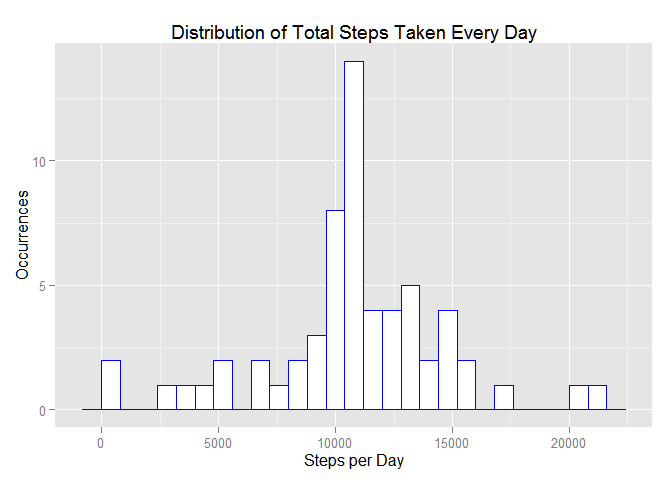
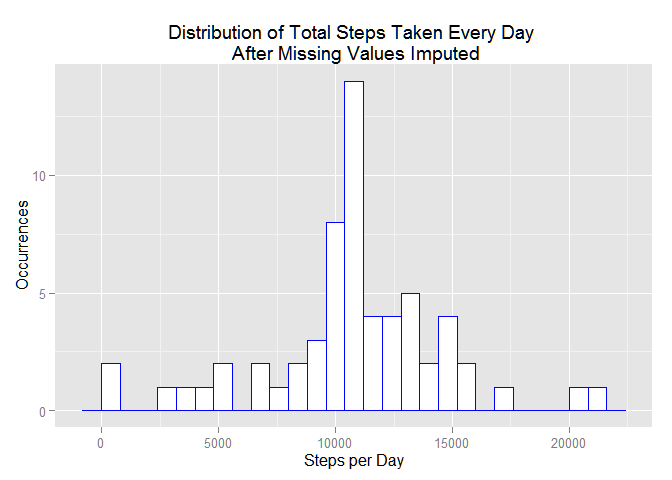
Clarified questions

diff --git a/PA1_template.html b/PA1_template.html
@@ -109,12 +109,13 @@ g + geom_line(binwidth = 800, fill=&quot;white&quot;, color=&quot;blue&quot;) +
[1 lines of base64/hex data omitted]
 <pre class="r"><code>HighInterval &lt;- Intervals[which.max(Intervals[, 2]), 1]
 HighValue &lt;- Intervals[which.max(Intervals[, 2]), 2]</code></pre>
-<p>The Maximum Number of Steps in a 5 minute interval is 206.1698113 and this starts at 835 minutes into the day.</p>
+<p>The Maximum Average Number of Steps in a 5 minute interval is 206.1698113 and this starts at 835 minutes into the day.</p>
 </div>
 <div id="imputing-missing-values" class="section level1">
 <h1>Imputing missing values</h1>
 <p>Find the total missing vales and report.</p>
-<p>Fill in the NA values with the mean for that interval, plot the histogram to see how it changes. Post the mean and median.</p>
+<p>Strategy for NAs: Fill in the NA values with the mean for that interval, plot the histogram to see how it changes.</p>
+<p>Post the mean and median after missing values are imputed.</p>
 <pre class="r"><code>missing &lt;- (nrow(activity)- sum(complete.cases(activity)))</code></pre>
 <p>There are 2304 rows with missing values</p>
 <pre class="r"><code>activity3 &lt;- merge(activity, Intervals, by.x = &quot;interval&quot;, by.y = &quot;Time_Interval&quot;, all.x = TRUE)
@@ -126,12 +127,12 @@ colnames(SumDays3) &lt;- c(&quot;Day&quot;, &quot;Total_Steps&quot;)
 
 library(ggplot2)
 ggplot(SumDays3, aes(x = Total_Steps)) + geom_histogram(binwidth = 800, fill=&quot;white&quot;, color=&quot;blue&quot;) + 
-    labs(title=&quot;Distribution of Total Steps Taken Every Day&quot;, x = &quot;Steps per Day&quot;, y=&quot;Occurrences&quot;)</code></pre>
[1 lines of base64/hex data omitted]
+    labs(title=&quot;Distribution of Total Steps Taken Every Day \n After Missing Values Imputed&quot;, x = &quot;Steps per Day&quot;, y=&quot;Occurrences&quot;)</code></pre>
[1 lines of base64/hex data omitted]
 <pre class="r"><code>MeanSteps3 &lt;- mean(SumDays3$Total_Steps)
 
 MedianSteps3 &lt;- median(SumDays3$Total_Steps)</code></pre>
-<p>Once the means for the interval replace missing values:</p>
+<p>Once the means for the interval replace missing values are imputed:</p>
 <p>The Mean Daily Number of Steps is 1.076618910^{4}</p>
 <p>The Median Daily Number of Steps is 1.076618910^{4}</p>
 <p>The Mean stayed the same, the Median adjusted to the Mean.</p>

diff --git a/PA1_template.md b/PA1_template.md
@@ -69,13 +69,15 @@ HighInterval <- Intervals[which.max(Intervals[, 2]), 1]
 HighValue <- Intervals[which.max(Intervals[, 2]), 2]
 ```
 
-The Maximum Number of Steps in a 5 minute interval is 206.1698113 and this starts at 835 minutes into the day.
+The Maximum Average Number of Steps in a 5 minute interval is 206.1698113 and this starts at 835 minutes into the day.
 
 # Imputing missing values
 
 Find the total missing vales and report.
 
-Fill in the NA values with the mean for that interval, plot the histogram to see how it changes.  Post the mean and median.
+Strategy for NAs: Fill in the NA values with the mean for that interval, plot the histogram to see how it changes.  
+
+Post the mean and median after missing values are imputed.
 
 
 ```r
@@ -95,7 +97,7 @@ colnames(SumDays3) <- c("Day", "Total_Steps")
 
 library(ggplot2)
 ggplot(SumDays3, aes(x = Total_Steps)) + geom_histogram(binwidth = 800, fill="white", color="blue") + 
-    labs(title="Distribution of Total Steps Taken Every Day", x = "Steps per Day", y="Occurrences")
+    labs(title="Distribution of Total Steps Taken Every Day \n After Missing Values Imputed", x = "Steps per Day", y="Occurrences")
 ```
 
 ![](PA1_template_files/figure-html/question3b-1.png) 
@@ -106,7 +108,7 @@ MeanSteps3 <- mean(SumDays3$Total_Steps)
 MedianSteps3 <- median(SumDays3$Total_Steps)
 ```
 
-Once the means for the interval replace missing values:
+Once the means for the interval replace missing values are imputed:
 
 The Mean Daily Number of Steps is 1.0766189\times 10^{4}
 
